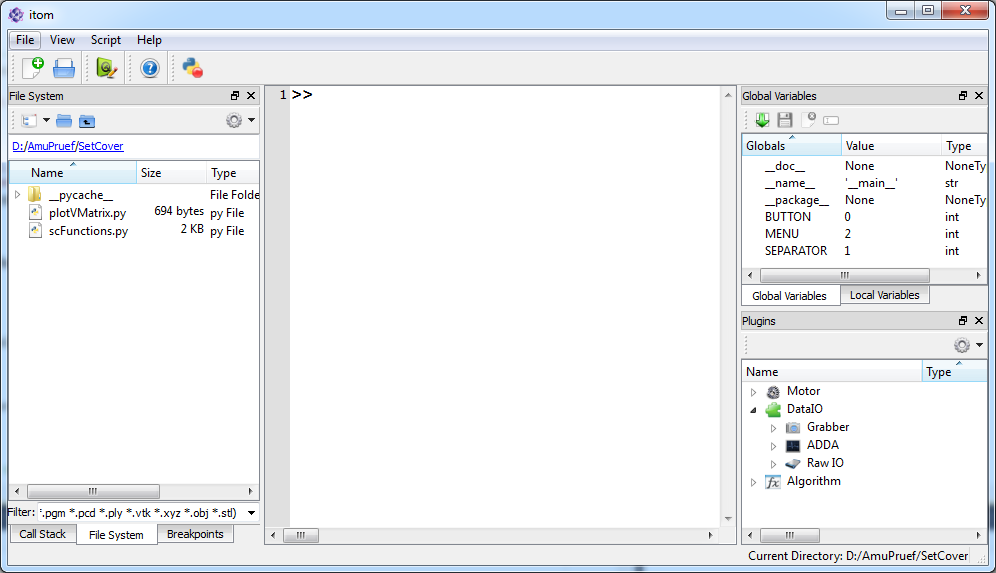
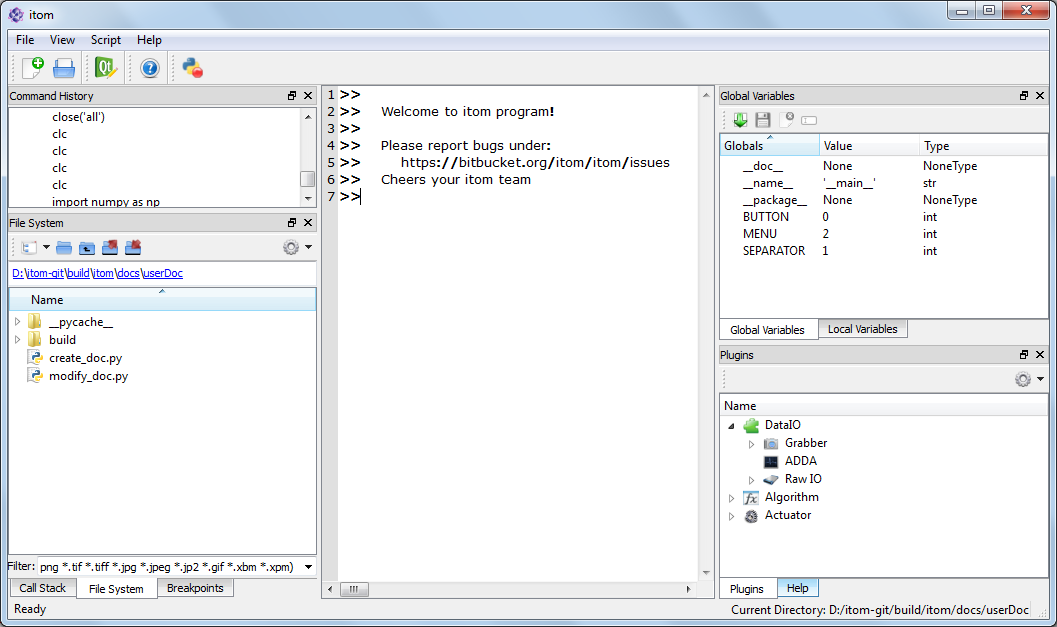
documentation about gui elements improved

Changed region(s): [[0.0, 0.0, 1.0, 1.0], [0.0, 0.6824, 0.0311, 0.712]]

diff --git a/docs/userDoc/source/04_itom_gui/mainWindow.rst b/docs/userDoc/source/04_itom_gui/mainWindow.rst
@@ -3,38 +3,38 @@
 Main Window
 ============
 
-When starting |itom| a splash screen is shown during the loading process of many components and external plugins. Then, the main window appears like in the following figure:
+During the startup of |itom| a splash screen shows the current state of the load process. After having finished, the |itom| main window appears like in the following screenshot:
 
 .. figure:: images/iTOM.png
     :scale: 100%
     :align: center
 
-The GUI consists of a command line widget (console_) in the center and several toolboxes_. |itom| contains the embedded scripting language Python 3. Simple python commands can therefore be typed in the console. The
-toolboxes provide many further functionalities of |itom|. Additionally, every opened actuator or dataIO plugin may provide its own toolbox, that can also be docked into |itom|'s main window.
+The appearance of the application after its start may vary with respect to the depicted screenshot, since the current position, size and visibility of many toolboxes and other components of the overall graphical user interface as stored in the settings at shutdown. They are reloaded at the next startup.
 
-Besides the console and toolboxes, further important functionalities are provided by the menu or the main toolbars.
+In general, the GUI consists of a command line widget (console_) in the center and several toolboxes_ that can be arbitrarily positioned as well as moved out of the main window itself (floated state). The toolboxes provide access to many main functionalities of |itom|. Additionally, every opened hardware plugin may provide its own toolbox, that can also be docked into |itom|'s main window.
 
-Console
----------
+Further functionalities of |itom| are reached by the menu or the toolbars. It is possible to add further user defined menus and toolbars using the python scripting language (see toolbar-start_).
 
-The command line in the center of the main window allows to execute single or multi-line python commands. Additionally all messages, warnings and errors coming from python methods or |itom| itself are printed in that console
-widget, where error messages are highlighted with a red background.
+.. _console:
+
+Command Line
+-------------
+
+The command line in the center of the main window allows executing single or multi-line python commands. Additionally all messages, warnings and errors coming from python method calls or |itom| itself are printed in the command line widget. Errors are highlighted with a red background:
 
 .. figure:: images/consoleError.png
     :scale: 100%
     :align: center
 
-Usually, the last line of the command line shows the ">>" sign, that indicates that the console is ready for a new input. You can either write a single python command and press the return key in order to execute it or you can write multiline commands. In order to create a new line for this, press the Shift+Return keys, which is a smooth line break (known from other software). After the final command simply press the return key such that the whole
-command block is executed.
+Usually, the last line of the command line shows the ">>" sign, that indicates that the console is ready for a new input. You can either write a single python command and press the return key in order to execute it or you can write multiline commands. In order to create a new line for this, press the Shift + Return (smooth line break). After the final command simply press the return key such that the whole command block is executed.
 
 .. figure:: images/consoleMultiLine.png
     :scale: 100%
     :align: center
 
-The current line or code-block that is executed is highlighted with a yellow background. For multi-line commands, |itom| parses the whole command block and divides it into logical blocks, such that the highlighed background
-switches from one block to the other one.
+The current line or code-block that is executed is highlighted with a yellow background. For multi-line commands, |itom| parses the whole command block and divides it into logical blocks, such that the highlighted background switches from one block to the other one.
 
-In the command line you can use every python command however the command line is not able to handle inputs. Additionally you can use one of the following key-words in order to clear the command line::
+In the command line you can use every python command, only character inputs are not supported. For inputs consider using the input dialog mechanism of |itom| (see msgInputBoxes_). Additionally you can use one of the following key-words in order to clear the command line::
     
     clc
     clear
@@ -107,13 +107,18 @@ Content:
    plugins
    filesystem
    breakpoints
+   commandHistory
+   callStack
 
-The core application of |itom| already comes with a set of different toolboxes. Additionally, many plugins provide the possibility to open a toolbox for every opened hardware instance, like actuators or cameras.
-These toolboxes are then also inserted into the main window of |itom|. Usually toolboxes can be docked into the main window or be in a floating state, such they appear like an unresizable window. If docked, they
-can be positioned at the left or right side or the top or bottom of the main window. Some of them however are limited with respect to the dockable positions.
+The core application of |itom| already comes with a set of different toolboxes. Additionally, many plugins provide the 
+possibility to open a toolbox for every opened hardware instance, like actuators or cameras. These toolboxes are then 
+also inserted into the main window of |itom|. Usually toolboxes can be docked into the main window or be in a floating 
+state, such they appear like an unresizable window. If docked, they can be positioned at the left or right side or the 
+top or bottom of the main window. Some of them however are limited with respect to the dockable positions.
 
-All available toolboxes are listed in the menu **View >> Toolboxes**, where hidden toolboxes can be shown again. Additionally, a right click to any place in the toolbar openes the following context menu where
-the first items also access the loaded toolboxes. The items after the separator correspond to the toolbars, such that they can be hidden or shown:
+All available toolboxes are listed in the menu **View >> Toolboxes**, where hidden toolboxes can be shown again. 
+Additionally, a right click to any place in the toolbar opens the following context menu where the first items also access 
+the loaded toolboxes. The items after the separator correspond to the toolbars, such that they can be hidden or shown:
 
 .. figure:: images/toolboxmenu.png
     :scale: 100%

diff --git a/docs/userDoc/source/04_itom_gui/callStack.rst b/docs/userDoc/source/04_itom_gui/callStack.rst
@@ -1,0 +1,32 @@
+.. include:: ../include/global.inc
+
+Call Stack
+***************************
+
+The call stack toolbox is only active and useful when debugging any python script with |itom|.
+
+The usage of the call stack should be presented using one simple example. The script **create_doc.py** is executed in debug mode
+and the debugger is currently waiting in the constructor of the class **Sphinx**, implemented in the file **application.py**.
+When opening this file in |itom|, a yellow array shows the current position of the debugger in line 69 of the file **application.py**.
+
+The corresponding call stack is then visible in the toolbox, like depicted below:
+
+.. image:: images/callstack.png
+    :scale: 100%
+    :align: center
+    
+A call stack shows the current function stack. At first, the debug process in |itom| is started by calling some functions in the
+files **bdb.py**, **itoDebugger.py** and **<script>**. Afterwards the currently debugged line in the script, where the debug process is started,
+is listed. If this script calls another method or class in the same or a different script, an entry is added on top of the call stack. Once this
+method is finished, the entry is removed from the stack and the debugger continues at the position, that is currently on top of the stack.
+
+By double-clicking on any enabled entry of the call stack, the corresponding python script is opened in |itom| and the position of the debugger
+becomes the current line. You can use the call stack in order to trace the entire call history for an improved debugging of the script(s).
+
+.. note::
+    
+    If you think, that the debugger shows another line in the script that does not correspond to the real executed code, you may need to reload this
+    or further scripts. Python has an improved caching mechanism for all modules and packages that have been imported at any place of your script.
+    Once imported, the modules and packages are translated in an intermediate file that is cached and saved in a **__pycache__** folder. Further changes
+    in any related script file are not executed if the old files are still cached. In order to force |itom| reloading any modules, either delete the
+    cache folders, use the **reload** method from the module **imp** or use the dialog **reloadModules** from |itom|.

diff --git a/docs/userDoc/source/04_itom_gui/commandHistory.rst b/docs/userDoc/source/04_itom_gui/commandHistory.rst
@@ -1,0 +1,27 @@
+.. include:: ../include/global.inc
+
+Command History
+***************************
+
+.. image:: images/commandHistory.png
+    :scale: 100%
+    :align: center
+
+If the command history option is enabled in the properties of |itom|, every script command that is executed via the command line, 
+is chronologically saved in the command history toolbox. Depending on the properties, all entries can also be grouped by the day 
+of their execution. There is a limit of saved commands (default: 100), such that older commands are automatically deleted from
+the toolbox if the maximum number of commands is reached. At shutdown of |itom| the current list of commands is saved and reloaded
+at the next startup.
+
+In the properties of |itom| there is another option, that forces |itom| not to display multiple equal commands in one sequence. Only
+the first command is saved then.
+
+To clear the entire history, choose **clear list** from the context menu of the command history.
+
+It is possible to drag&drop one or multiple commands from the history to either any script window or the command line. For selecting
+multiple commands, use either the shift-key (adjacent commands) or the ctrl-key for selecting single commands.
+
+.. note::
+    
+    When dropping one or multiple commands onto the command line, they are not directly executed. Therefore press the return key in order
+    to start the execution.

diff --git a/docs/userDoc/source/04_itom_gui/gui.rst b/docs/userDoc/source/04_itom_gui/gui.rst
@@ -2,8 +2,10 @@
 
 .. _gui:
 
-The |itom| User Interface
+The itom User Interface
 ###########################
+
+This chapter describes the main functionalities, windows and dialogs that are provided by the main application of |itom|.
 
 .. toctree::
    :maxdepth: 2

diff --git a/docs/userDoc/source/06_extended_gui/method-itom.rst b/docs/userDoc/source/06_extended_gui/method-itom.rst
@@ -1,5 +1,7 @@
 .. include:: /include/global.inc
 
+.. _msgInputBoxes:
+
 Show messages, input boxes and default dialogs
 ************************************************
 
